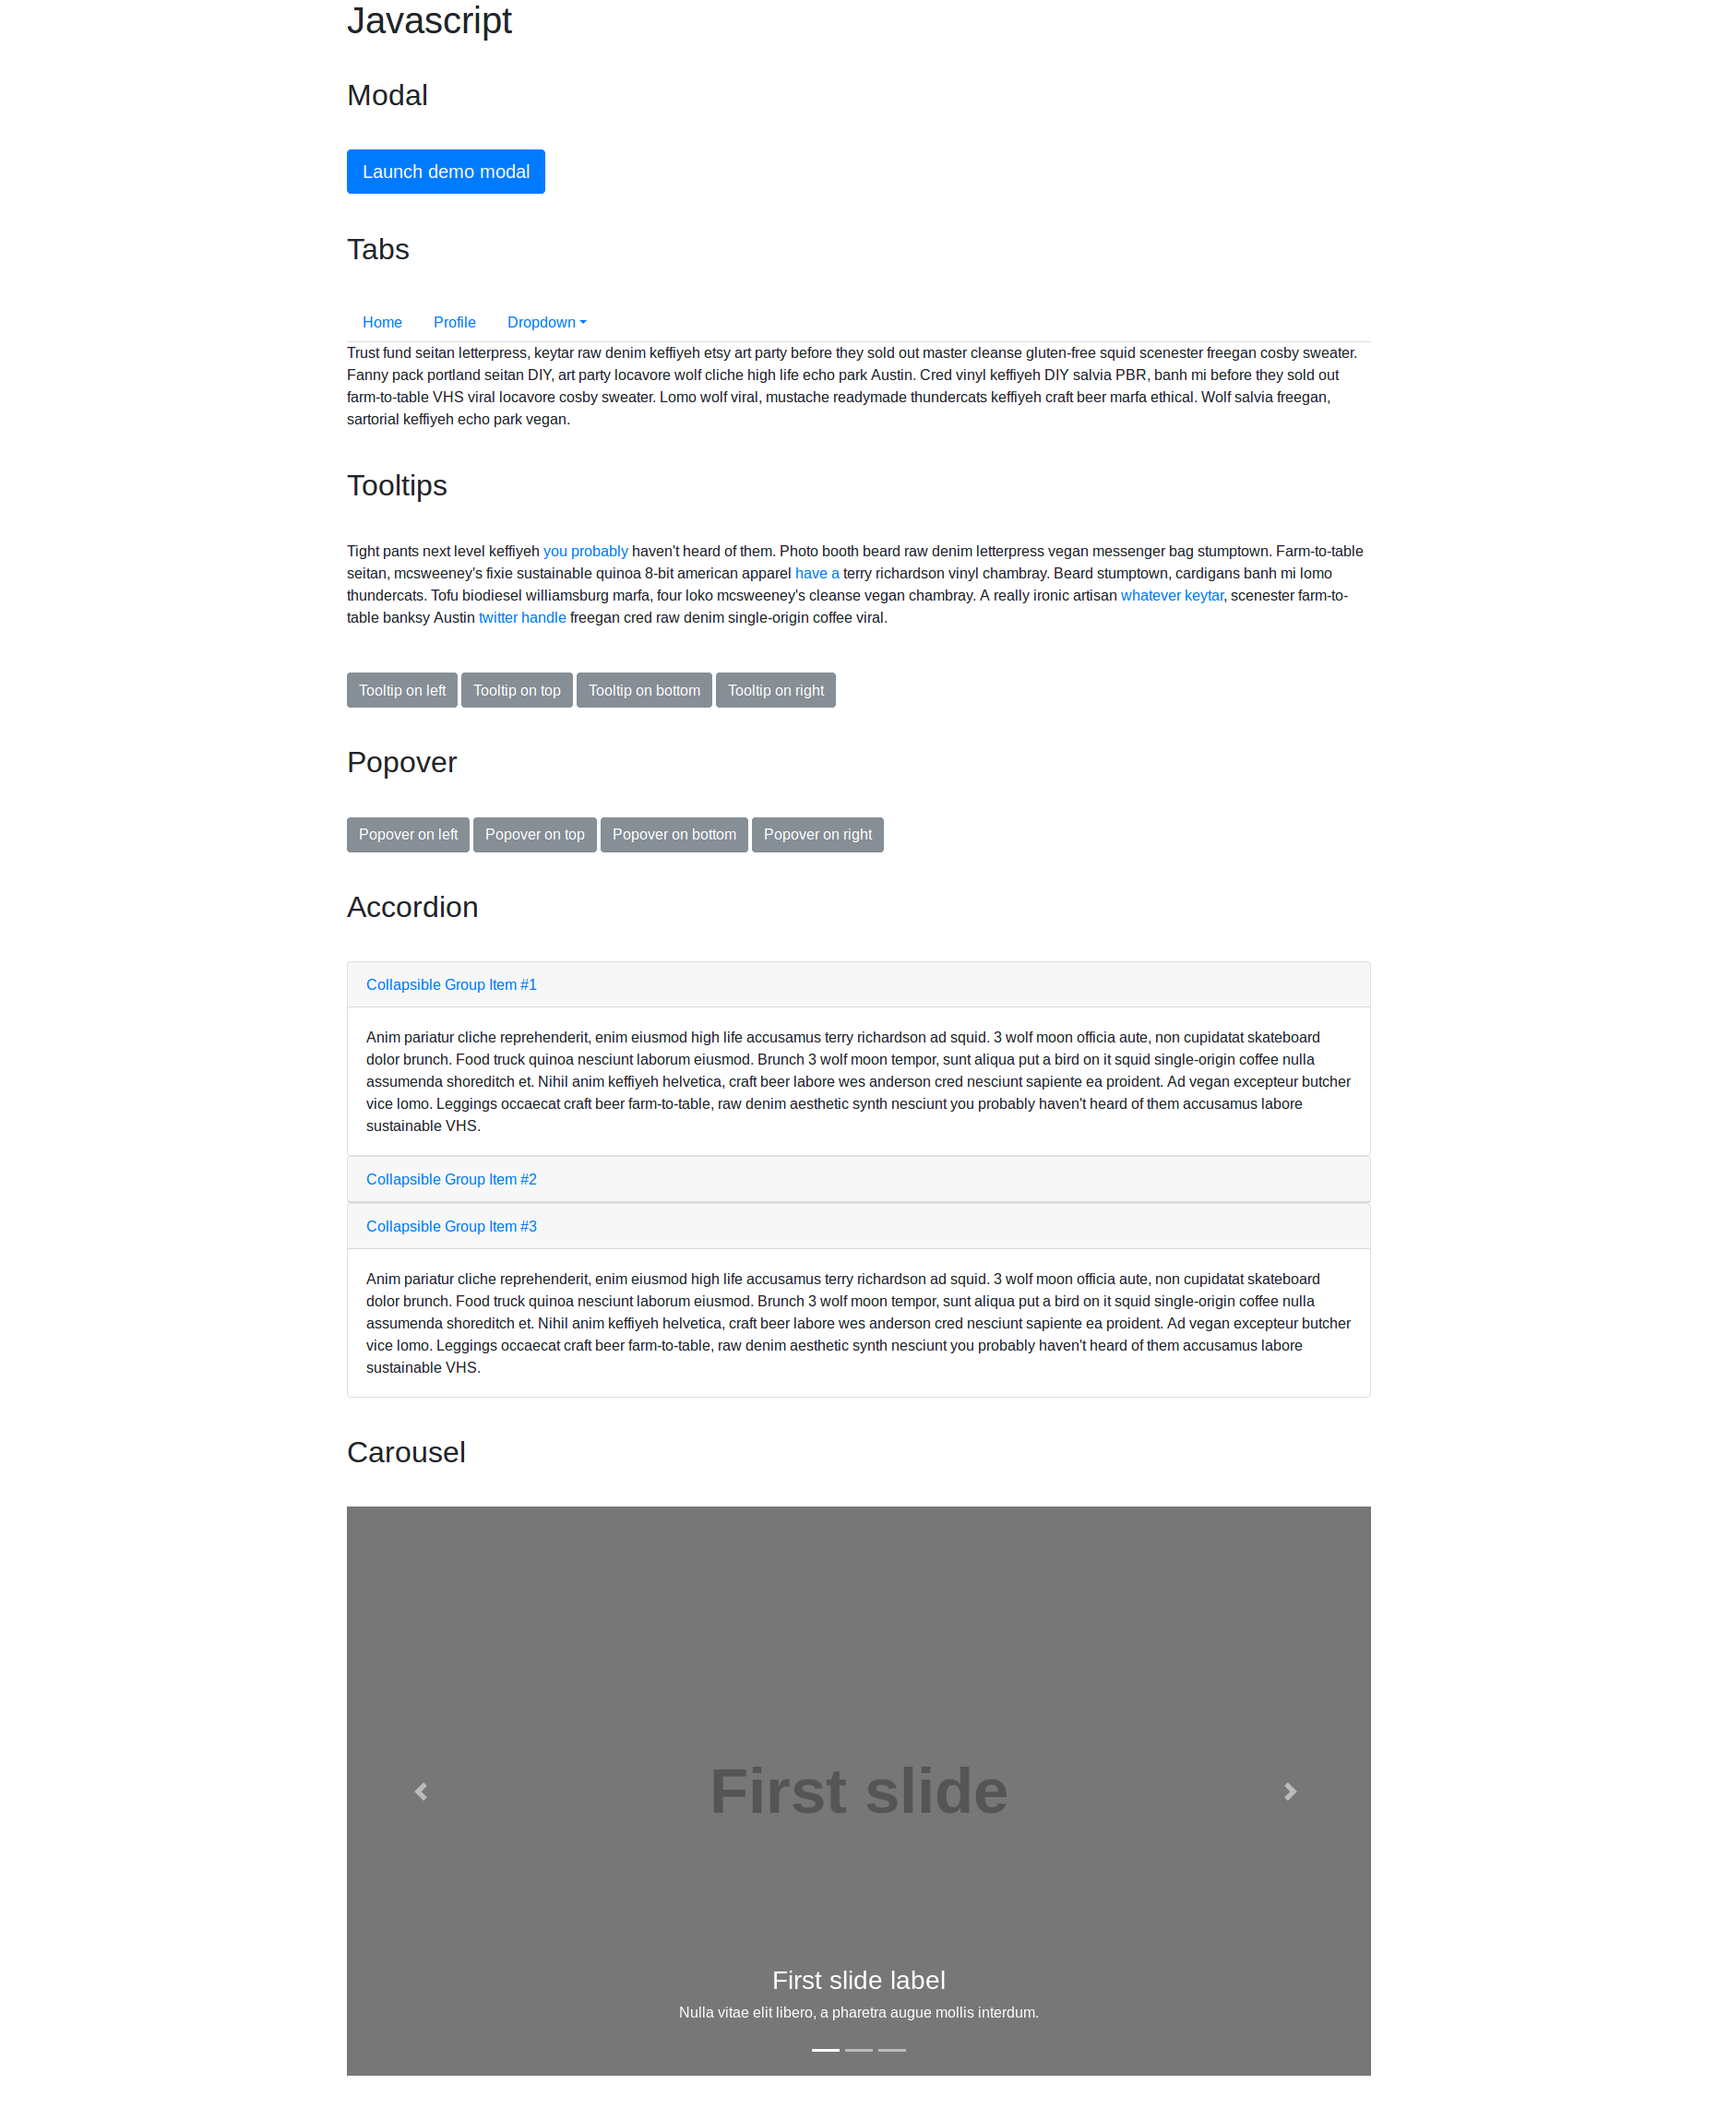
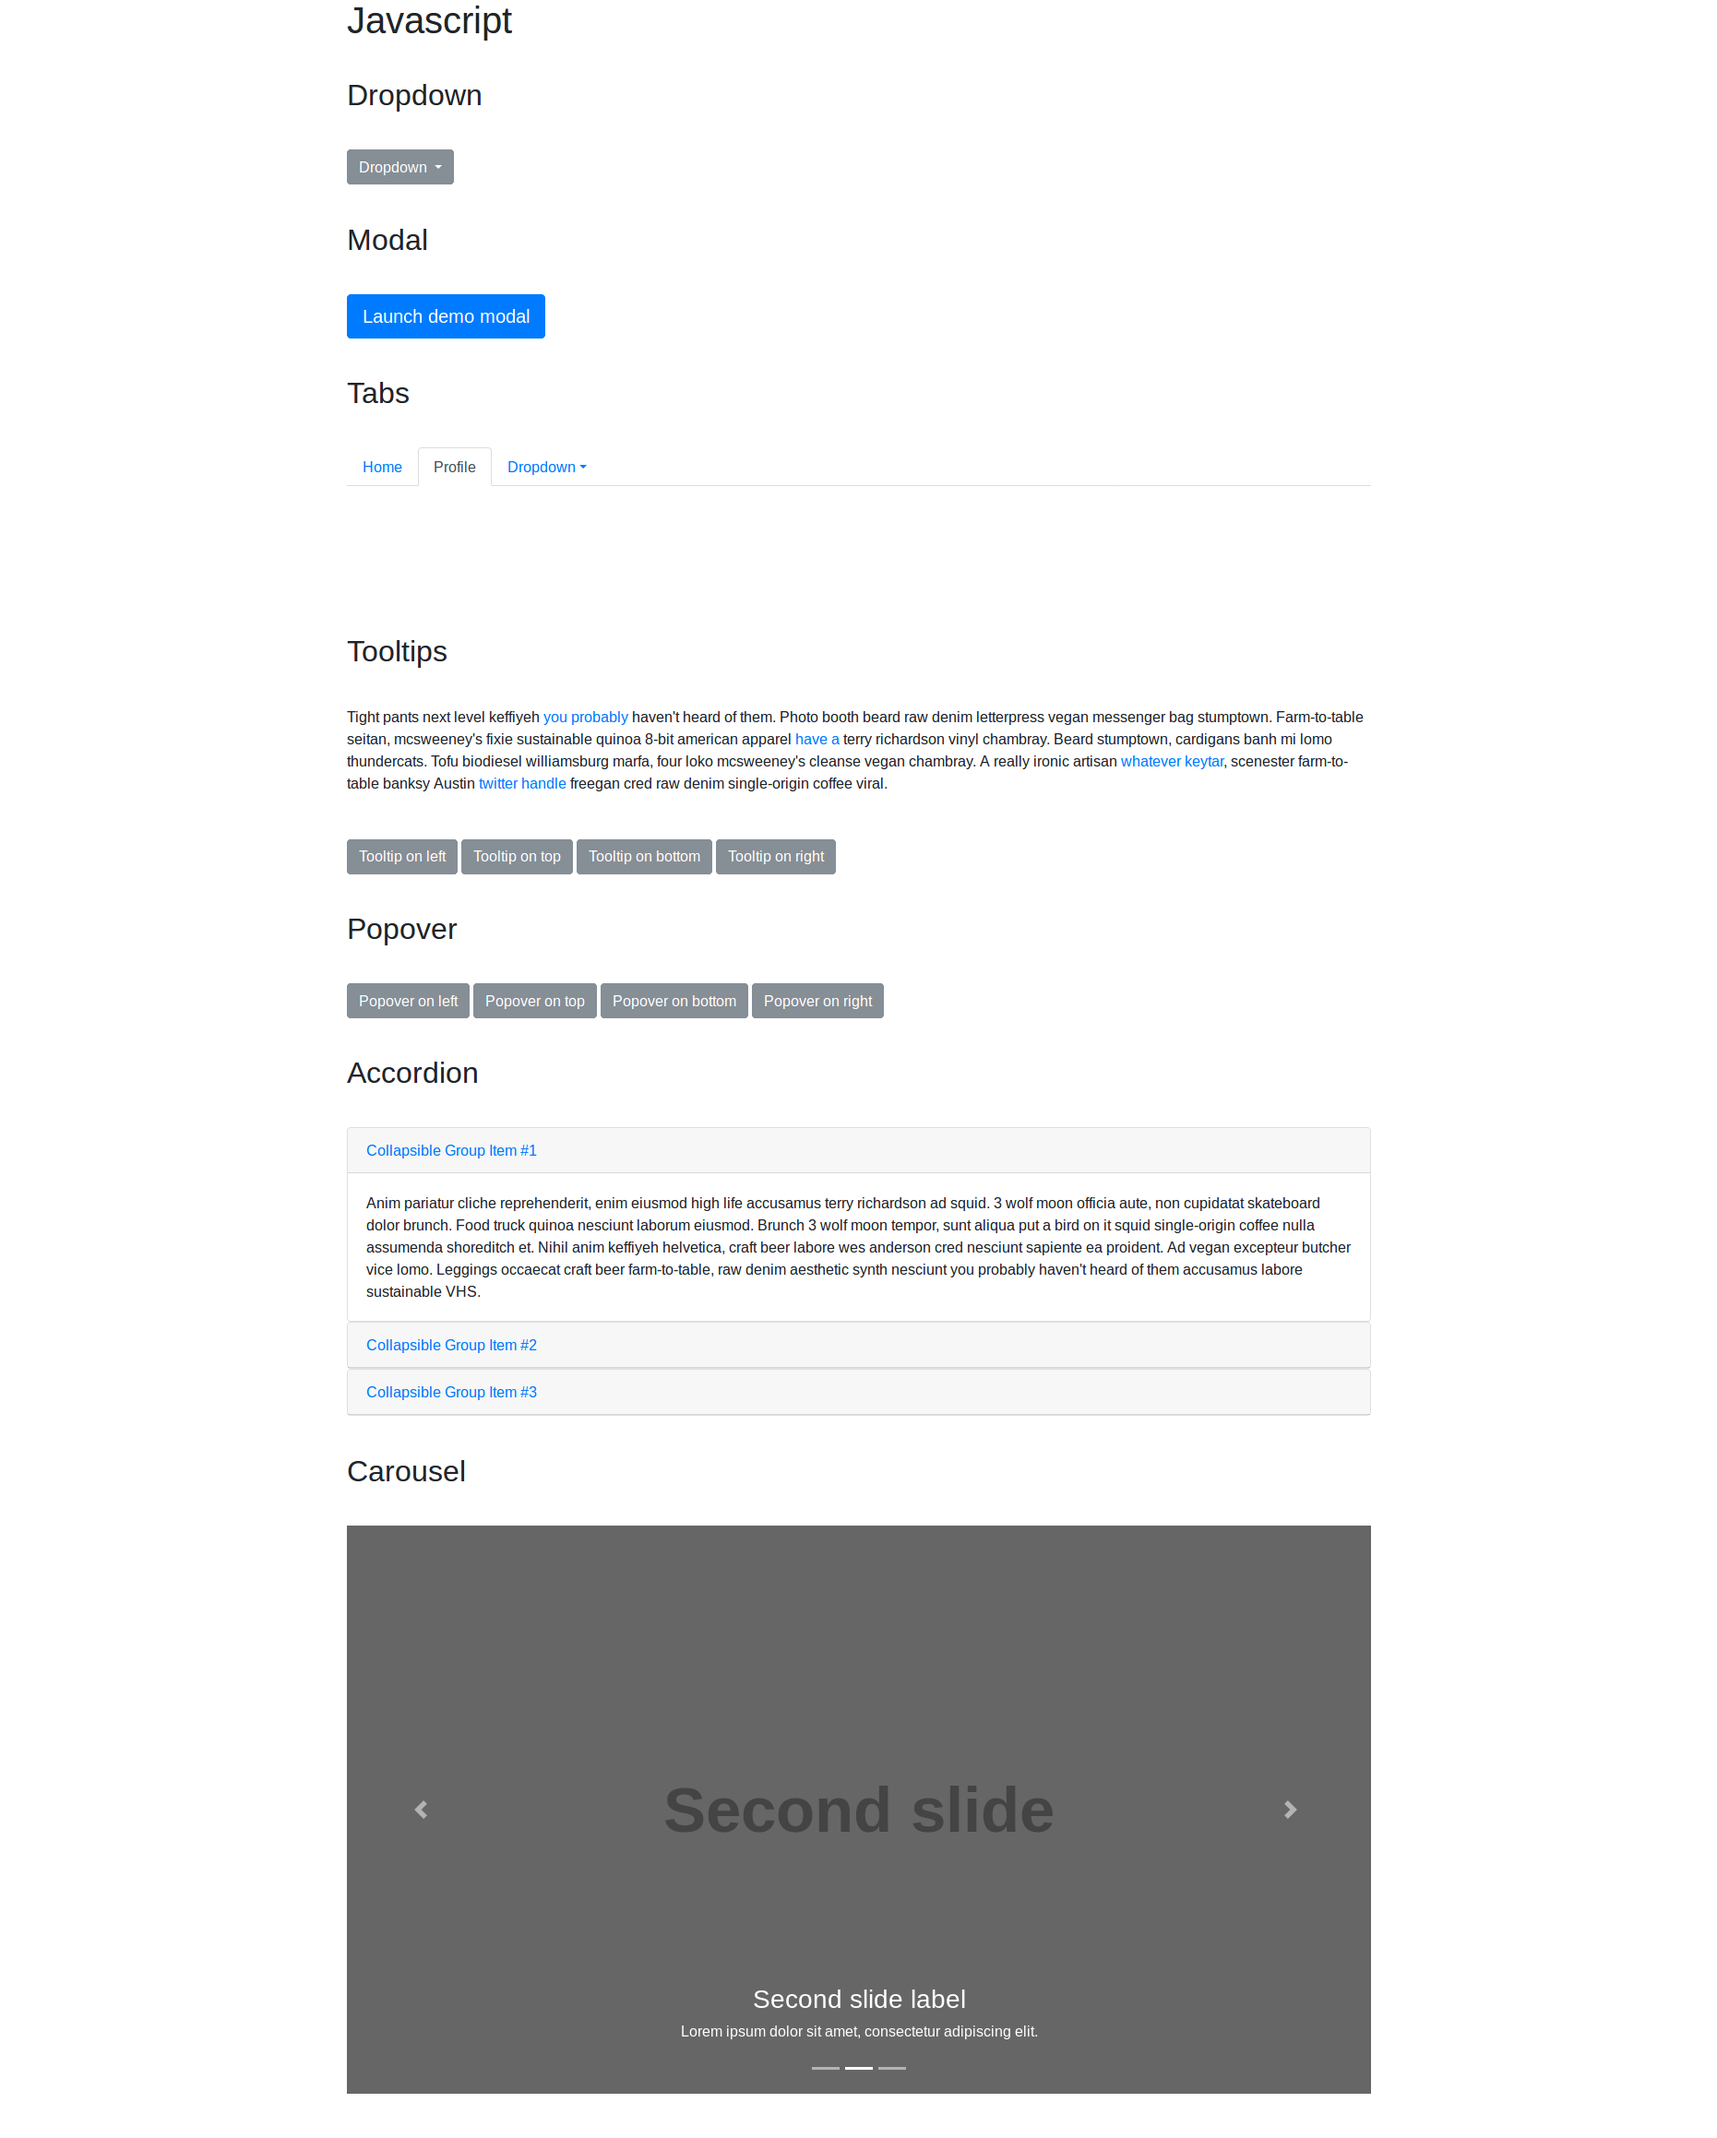
movido el componente dropdown al ejercicio 11-javascript

diff --git a/05-bootstrap/05-bootstrap-4.0/src/ejercicios/ejercicios/11-javascript.html b/05-bootstrap/05-bootstrap-4.0/src/ejercicios/ejercicios/11-javascript.html
@@ -24,6 +24,23 @@
 
         <h1>Javascript</h1>
 
+        <h2>Dropdown</h2>
+
+        <div class="">
+            <button class="btn btn-secondary " type="button" id="dropdownMenu1" data-toggle="dropdown">
+                Dropdown
+            </button>
+            <div class="" role="menu" aria-labelledby="dropdownMenu1">
+                <div class="">Dropdown header</div>
+                <a class="" role="menuitem" href="#">Action</a>
+                <a class="" role="menuitem" href="#">Another action</a>
+                <a class="" role="menuitem" href="#">Something else here</a>
+                <div class=""></div>
+                <div class="">Dropdown header</div>
+                <a class="" role="menuitem" href="#">Separated link</a>
+            </div>
+        </div>
+
         <h2>Modal</h2>
 
         <!-- Button trigger modal -->
@@ -102,8 +119,8 @@
         <p class="muted" style="margin-bottom: 0;">Tight pants next level keffiyeh <a data-original-title="Default tooltip" href="#" data-toggle="" title="">you probably</a>            haven't heard of them. Photo booth beard raw denim letterpress vegan messenger bag stumptown. Farm-to-table seitan,
             mcsweeney's fixie sustainable quinoa 8-bit american apparel <a href="#" data-toggle="" title="Another tooltip">have a</a>            terry richardson vinyl chambray. Beard stumptown, cardigans banh mi lomo thundercats. Tofu biodiesel williamsburg
             marfa, four loko mcsweeney's cleanse vegan chambray. A really ironic artisan <a data-original-title="Another one here too"
-                href="#" data-toggle="" title="">whatever keytar</a>, scenester farm-to-table banksy Austin <a href="#"
-                data-toggle="" title="The last tip!">twitter handle</a> freegan cred raw denim single-origin coffee viral.
+                href="#" data-toggle="" title="">whatever keytar</a>, scenester farm-to-table banksy Austin <a href="#" data-toggle=""
+                title="The last tip!">twitter handle</a> freegan cred raw denim single-origin coffee viral.
         </p>
 
         <br />

diff --git a/05-bootstrap/05-bootstrap-4.0/src/ejercicios/solucion/10-componentes.html b/05-bootstrap/05-bootstrap-4.0/src/ejercicios/solucion/10-componentes.html
@@ -24,24 +24,6 @@
 
         <h1>Componentes</h1>
 
-        <h2>Dropdown</h2>
-
-        <div class="dropdown">
-            <button class="btn btn-secondary dropdown-toggle" type="button" id="dropdownMenu1" data-toggle="dropdown">
-                Dropdown
-
-            </button>
-            <div class="dropdown-menu" role="menu" aria-labelledby="dropdownMenu1">
-                <div class="dropdown-header">Dropdown header</div>
-                <a class="dropdown-item" role="menuitem" href="#">Action</a>
-                <a class="dropdown-item" role="menuitem" href="#">Another action</a>
-                <a class="dropdown-item" role="menuitem" href="#">Something else here</a>
-                <div class="dropdown-divider"></div>
-                <div class="dropdown-header">Dropdown header</div>
-                <a class="dropdown-item" role="menuitem" href="#">Separated link</a>
-            </div>
-        </div>
-
         <h2>Button groups</h2>
 
         <div class="btn-group">
@@ -731,13 +713,6 @@
         </div>
 
     </div>
-
-    <!-- Bootstrap core JavaScript
-    ================================================== -->
-    <!-- Placed at the end of the document so the pages load faster -->
-    <script src="../lib/jquery-3.2.1.min.js"></script>
-    <script src="../lib/popper.js-1.12.4/dist/umd/popper.min.js"></script>
-    <script src="../../bootstrap-4.0.0-beta/dist/js/bootstrap.min.js"></script>
 
 </body>
 

diff --git a/05-bootstrap/05-bootstrap-4.0/src/ejercicios/ejercicios/10-componentes.html b/05-bootstrap/05-bootstrap-4.0/src/ejercicios/ejercicios/10-componentes.html
@@ -24,24 +24,6 @@
 
         <h1>Componentes</h1>
 
-        <h2>Dropdown</h2>
-
-        <div class="">
-            <button class="btn btn-secondary " type="button" id="dropdownMenu1" data-toggle="dropdown">
-                Dropdown
-
-            </button>
-            <div class="" role="menu" aria-labelledby="dropdownMenu1">
-                <div class="">Dropdown header</div>
-                <a class="" role="menuitem" href="#">Action</a>
-                <a class="" role="menuitem" href="#">Another action</a>
-                <a class="" role="menuitem" href="#">Something else here</a>
-                <div class=""></div>
-                <div class="">Dropdown header</div>
-                <a class="" role="menuitem" href="#">Separated link</a>
-            </div>
-        </div>
-
         <h2>Button groups</h2>
 
         <div class="">
@@ -731,13 +713,6 @@
         </div>
 
     </div>
-
-    <!-- Bootstrap core JavaScript
-    ================================================== -->
-    <!-- Placed at the end of the document so the pages load faster -->
-    <script src="../lib/jquery-3.2.1.min.js"></script>
-    <script src="../lib/popper.js-1.12.4/dist/umd/popper.min.js"></script>
-    <script src="../../bootstrap-4.0.0-beta/dist/js/bootstrap.min.js"></script>
 
 </body>
 

diff --git a/05-bootstrap/05-bootstrap-4.0/src/ejercicios/solucion/11-javascript.html b/05-bootstrap/05-bootstrap-4.0/src/ejercicios/solucion/11-javascript.html
@@ -24,6 +24,23 @@
 
         <h1>Javascript</h1>
 
+        <h2>Dropdown</h2>
+
+        <div class="dropdown">
+            <button class="btn btn-secondary dropdown-toggle" type="button" id="dropdownMenu1" data-toggle="dropdown">
+                Dropdown
+            </button>
+            <div class="dropdown-menu" role="menu" aria-labelledby="dropdownMenu1">
+                <div class="dropdown-header">Dropdown header</div>
+                <a class="dropdown-item" role="menuitem" href="#">Action</a>
+                <a class="dropdown-item" role="menuitem" href="#">Another action</a>
+                <a class="dropdown-item" role="menuitem" href="#">Something else here</a>
+                <div class="dropdown-divider"></div>
+                <div class="dropdown-header">Dropdown header</div>
+                <a class="dropdown-item" role="menuitem" href="#">Separated link</a>
+            </div>
+        </div>
+
         <h2>Modal</h2>
 
         <!-- Button trigger modal -->

diff --git a/programacion.md b/programacion.md
@@ -23,7 +23,7 @@
 
 # Día 5
 - Ejercicios individuales Bootstrap
-- Ejercicio prototipado Bootstrap
 
 # Día 6
+- Ejercicio prototipado Bootstrap
 - Teoría y ejercicios Sass (sólo si da tiempo)
